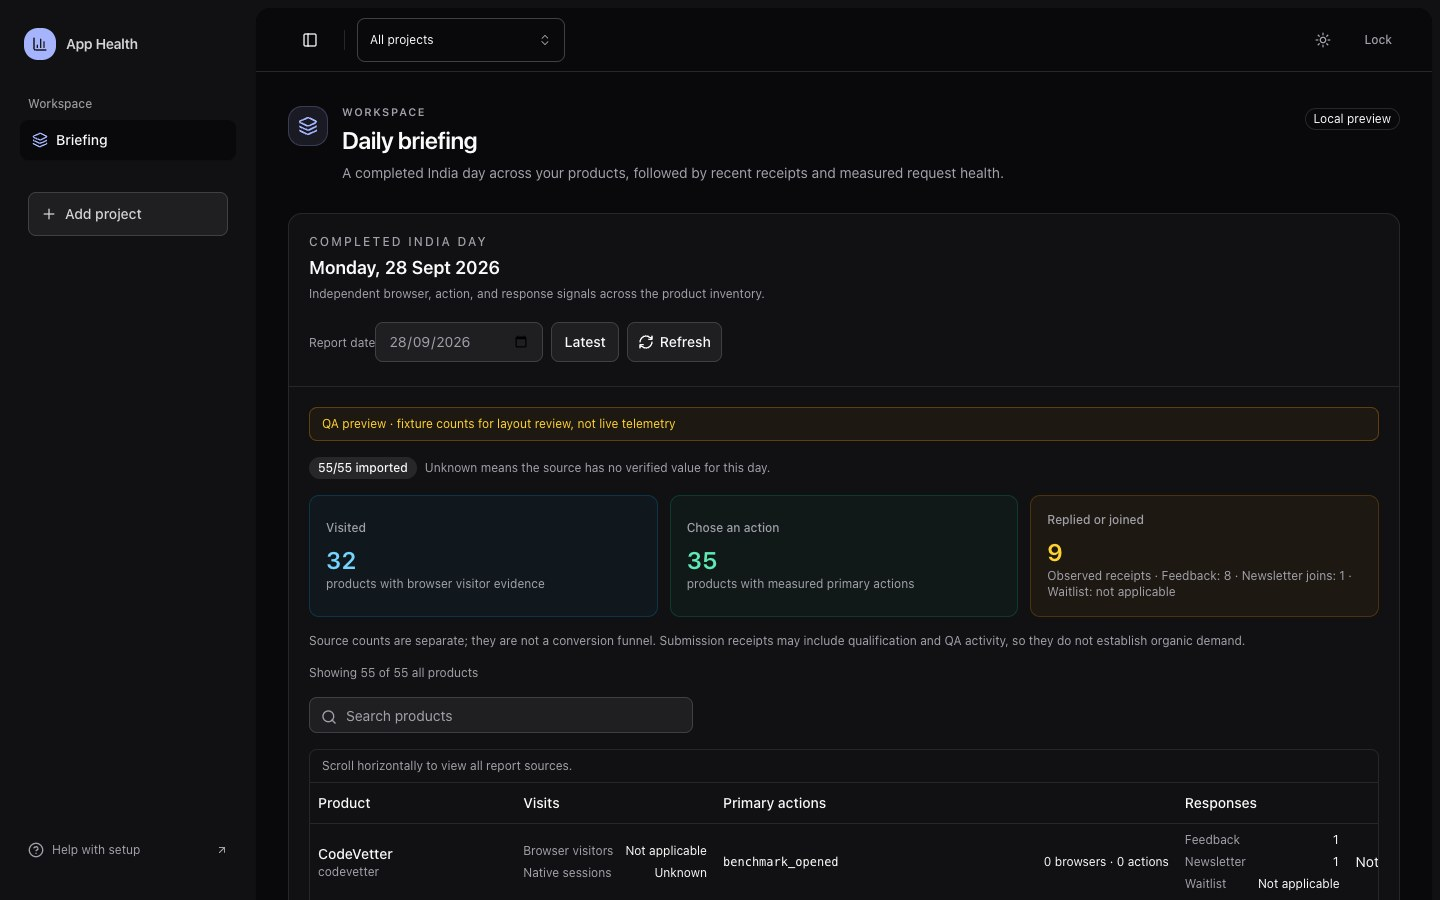
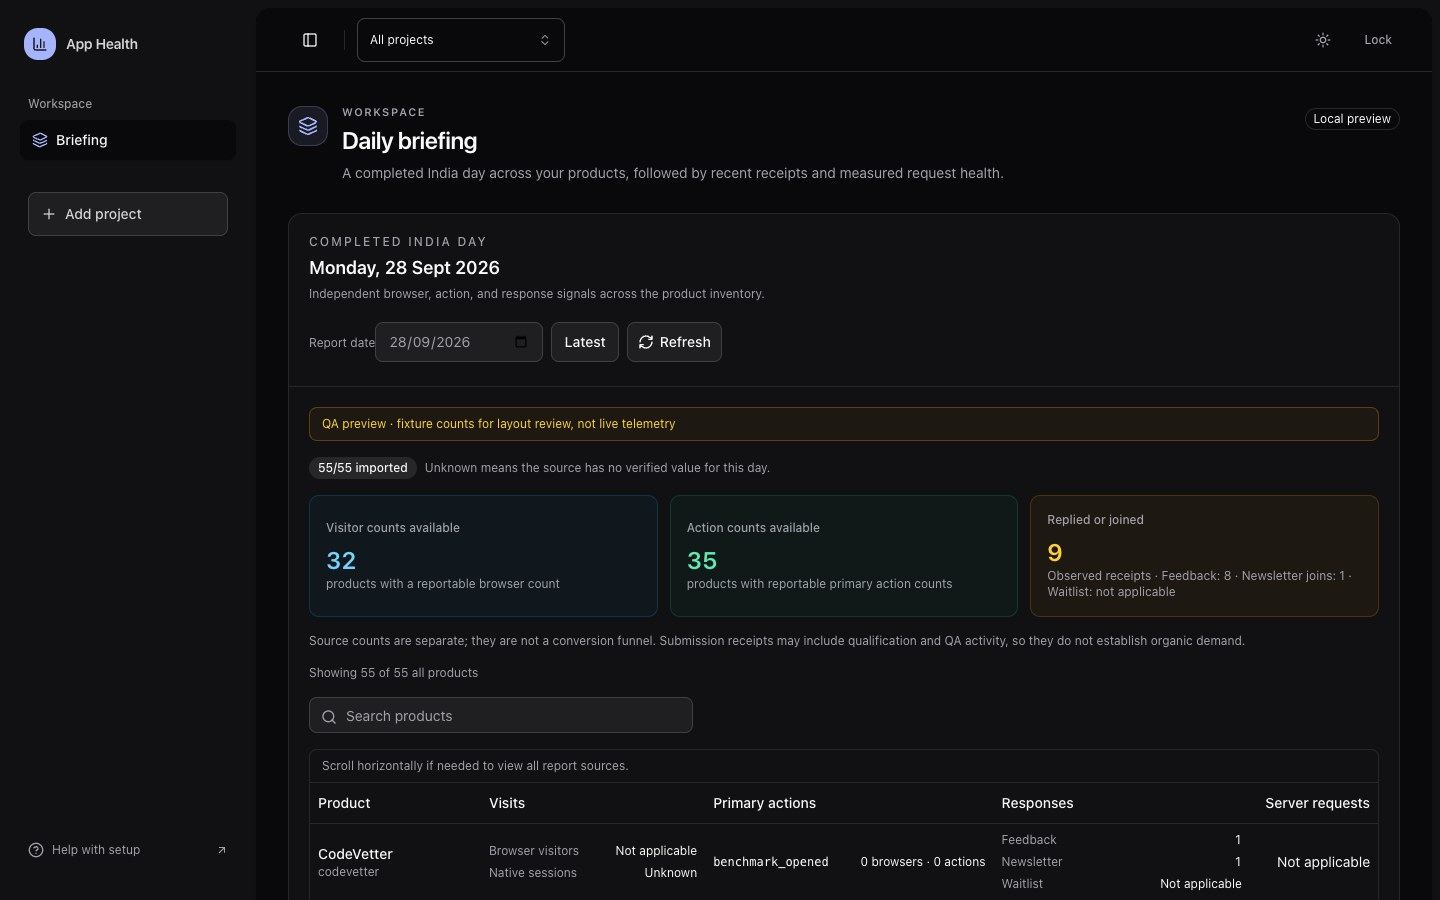
Fit daily briefing sources on desktop
Keep long CTA identifiers within their cells and give the five evidence columns bounded widths. Update the responsive check and 1440 px QA screenshot so desktop no longer requires horizontal scrolling.

diff --git a/apps/web/src/DailyEngagement.tsx b/apps/web/src/DailyEngagement.tsx
@@ -239,8 +239,8 @@ function ProductActions({
     <ul className="space-y-1 text-xs">
       {events.map((event) => (
         <li key={event.name} className="flex justify-between gap-3">
-          <span className="font-mono">{event.name}</span>
-          <span className="tabular-nums">
+          <span className="min-w-0 break-words font-mono">{event.name}</span>
+          <span className="shrink-0 text-right tabular-nums">
             {event.unique_browsers === null
               ? 'Unknown browsers'
               : `${event.unique_browsers} ${event.unique_browsers === 1 ? 'browser' : 'browsers'}`}
@@ -312,16 +312,16 @@ function DesktopProducts({ products }: { products: Product[] }): JSX.Element {
   return (
     <div className="hidden max-w-full rounded-md border xl:block">
       <p className="border-b px-3 py-2 text-xs text-muted-foreground">
-        Scroll horizontally to view all report sources.
+        Scroll horizontally if needed to view all report sources.
       </p>
-      <Table>
+      <Table className="table-fixed">
         <TableHeader>
           <TableRow>
-            <TableHead className="whitespace-normal">Product</TableHead>
-            <TableHead className="whitespace-normal">Visits</TableHead>
-            <TableHead className="whitespace-normal">Primary actions</TableHead>
-            <TableHead className="whitespace-normal">Responses</TableHead>
-            <TableHead className="whitespace-normal text-right">Server requests</TableHead>
+            <TableHead className="w-[16%] whitespace-normal">Product</TableHead>
+            <TableHead className="w-[21%] whitespace-normal">Visits</TableHead>
+            <TableHead className="w-[27%] whitespace-normal">Primary actions</TableHead>
+            <TableHead className="w-[24%] whitespace-normal">Responses</TableHead>
+            <TableHead className="w-[12%] whitespace-normal text-right">Server requests</TableHead>
           </TableRow>
         </TableHeader>
         <TableBody>
@@ -331,7 +331,7 @@ function DesktopProducts({ products }: { products: Product[] }): JSX.Element {
                 <span className="font-medium">{product.name}</span>
                 <span className="block text-xs text-muted-foreground">{product.catalog_id}</span>
               </TableCell>
-              <TableCell className="min-w-40">
+              <TableCell>
                 <dl className="space-y-1.5 text-xs">
                   <div className="flex justify-between gap-3">
                     <dt className="text-muted-foreground">Browser visitors</dt>
@@ -355,7 +355,7 @@ function DesktopProducts({ products }: { products: Product[] }): JSX.Element {
                   </span>
                 ) : null}
               </TableCell>
-              <TableCell className="min-w-52">
+              <TableCell>
                 <ProductActions events={product.cta_events} status={product.cta_status} />
               </TableCell>
               <TableCell>

diff --git a/apps/web/e2e/daily-engagement.spec.ts b/apps/web/e2e/daily-engagement.spec.ts
@@ -174,10 +174,7 @@ for (const width of [390, 768, 1440]) {
         content: node.scrollWidth,
         visible: node.clientWidth,
       }));
-      expect(tableWidth.content).toBeGreaterThan(tableWidth.visible);
-      await table.evaluate((node) => {
-        node.scrollLeft = node.scrollWidth;
-      });
+      expect(tableWidth.content).toBeLessThanOrEqual(tableWidth.visible);
       await expect(report.getByRole('columnheader', { name: 'Server requests' })).toBeVisible();
       const serverHeaderIsInView = await report
         .getByRole('columnheader', { name: 'Server requests' })
@@ -191,9 +188,6 @@ for (const width of [390, 768, 1440]) {
           );
         });
       expect(serverHeaderIsInView).toBe(true);
-      await table.evaluate((node) => {
-        node.scrollLeft = 0;
-      });
     }
     await checkReadability(page);
 
